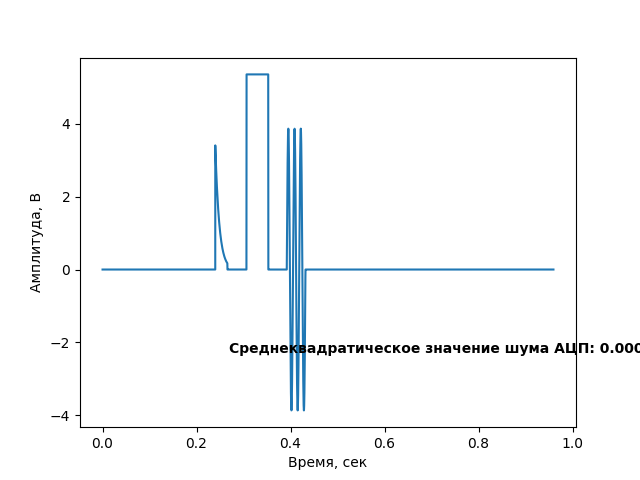
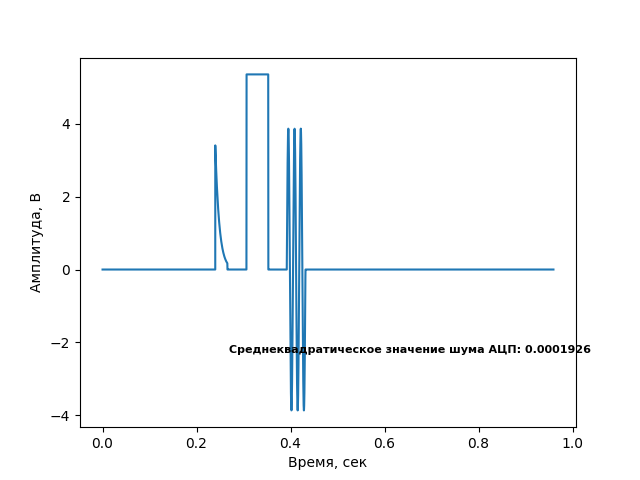
sldfj

Changed region(s): [[0.3438, 0.7188, 1.0, 0.75]]

diff --git a/MetUstrCifrObr/1sem/labi/lab1/lab1.py b/MetUstrCifrObr/1sem/labi/lab1/lab1.py
@@ -83,7 +83,7 @@ def main():
 
     global_ax.set_xlabel("Время, сек")
     global_ax.set_ylabel("Амплитуда, В")
-    global_ax.text(0.3, 0.2, "Среднеквадратическое значение шума АЦП: {}".format(round(rms_U, 7)), fontsize=10, 
+    global_ax.text(0.3, 0.2, "Среднеквадратическое значение шума АЦП: {}".format(round(rms_U, 7)), fontsize=8, 
                    fontweight="bold", transform=global_ax.transAxes) 
     global_fig.savefig("Общий сигнал.png")
 
